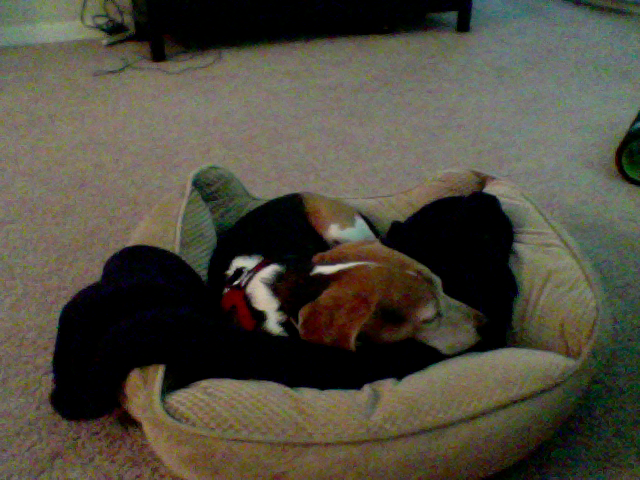
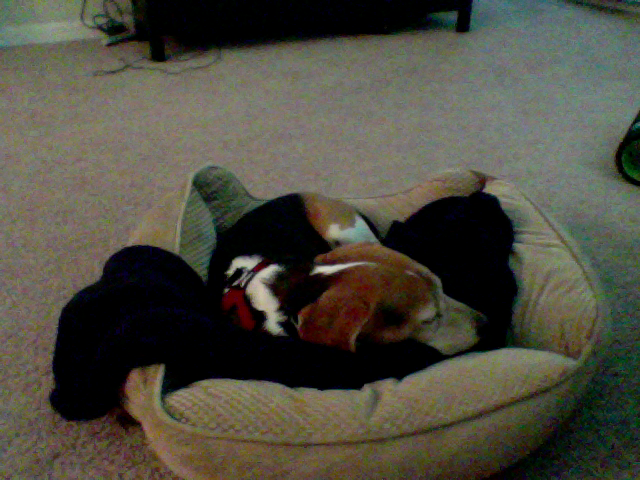
update at Month05Day13Time08:31

diff --git a/index.html b/index.html
@@ -40,7 +40,7 @@
       <div class="row">
         <div class="col-md-4">
 	<p>This picture was updated at Month05Day13Time08:31</p>
-		<img src="7_pic.png" />
+		<img src="6_pic.png" />
         </div>
       </div>
 
